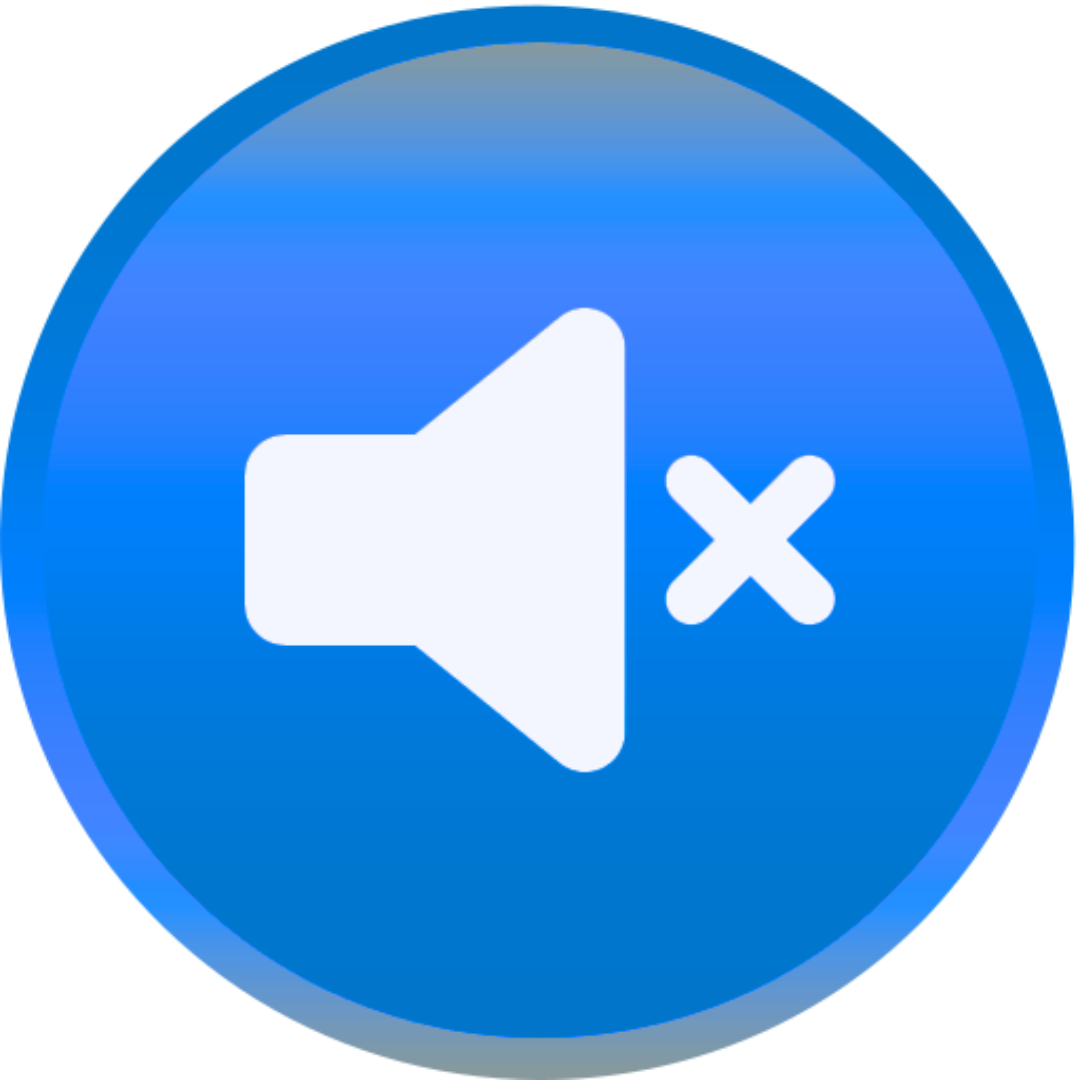
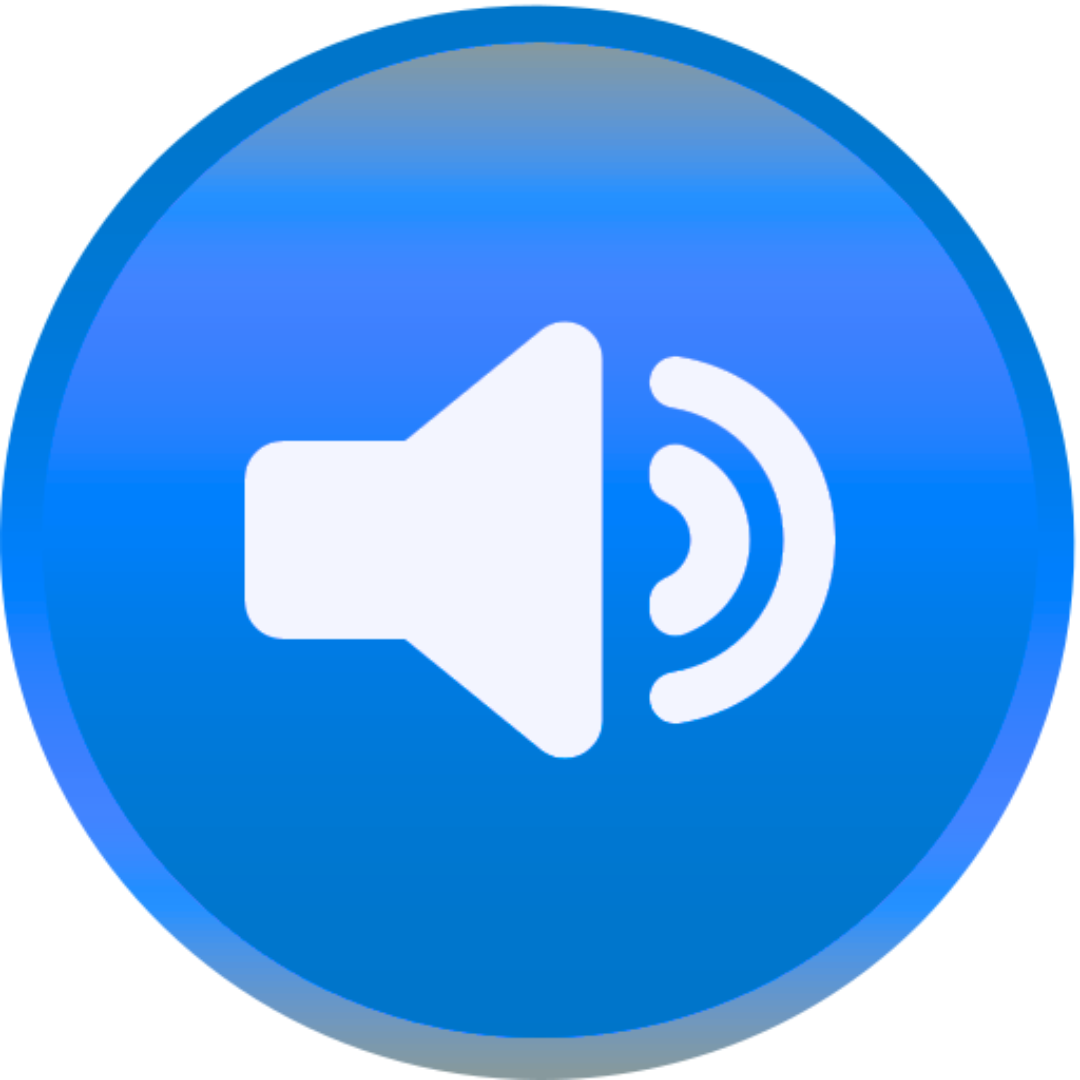
quiz page styles changed

diff --git a/Web/public/pages/level_1_quiz.html b/Web/public/pages/level_1_quiz.html
@@ -47,18 +47,21 @@
 
             <div id="middle-content">
                 <div class="answer">
-                    <button id="option-button" ><a href="/pages/level_1_win.html">Twinkle Twinkle</a></button>
-                    <img id="listen1" src="/images/listen-on.png">
+                    <button id="option-button"><a href="/pages/level_1_win.html">Twinkle Twinkle</a></button>
+                    <img id="listen1-off" src="/images/listen-off.png" alt="sound off">
+                    <img id="listen1-on" src="/images/listen-on.png" alt="sound on" class="hidden">
                     <audio id="audio1" src="/music/level_1_music.mp3"></audio>
                 </div>
                 <div class="answer">
                     <button id="option-button"><a href="/pages/level_1_lose.html">I'm a little tea pot</a></button>
-                    <img id="listen2" src="/images/listen-on.png">
+                    <img id="listen2-off" src="/images/listen-off.png" alt="sound off">
+                    <img id="listen2-on" src="/images/listen-on.png" alt="sound on" class="hidden">
                     <audio id="audio2" src="/music/level_2_music.mp3"></audio>
                 </div>
                 <div class="answer">
                     <button id="option-button"><a href="/pages/level_1_lose.html">You are my sunshine</a></button>
-                    <img id="listen3" src="/images/listen-on.png">
+                    <img id="listen3-off" src="/images/listen-off.png" alt="sound off">
+                    <img id="listen3-on" src="/images/listen-on.png" alt="sound on" class="hidden">
                     <audio id="audio3" src="/music/option_3_music.mp3"></audio>
                 </div>
             </div>
@@ -67,38 +70,56 @@
     </div>
 
     <script>
-        document.addEventListener("DOMContentLoaded", function () {
-            const audio1 = document.getElementById("audio1");
-            const audio2 = document.getElementById("audio2");
-            const audio3 = document.getElementById("audio3");
-            let isPlaying = false;
-            let currentAudio = null;
+        const audio1 = document.getElementById("audio1");
+        const audio2 = document.getElementById("audio2");
+        const audio3 = document.getElementById("audio3");
 
-            function handleListenClick(audioElement) {
-                if (isPlaying) {
-                    currentAudio.pause();
-                    currentAudio.currentTime = 0;
-                } else {
-                    audio1.pause();
-                    audio2.pause();
-                    audio3.pause();
-                    audioElement.play();
-                    currentAudio = audioElement;
-                }
-                isPlaying = !isPlaying;
-            }
+        const listen1Off = document.getElementById("listen1-off");
+        const listen2Off = document.getElementById("listen2-off");
+        const listen3Off = document.getElementById("listen3-off");
 
-            document.getElementById("listen1").addEventListener("click", function () {
-                handleListenClick(audio1);
-            });
+        const listen1On = document.getElementById("listen1-on");
+        const listen2On = document.getElementById("listen2-on");
+        const listen3On = document.getElementById("listen3-on");
 
-            document.getElementById("listen2").addEventListener("click", function () {
-                handleListenClick(audio2);
-            });
+        const optionButton1 = document.getElementById("option-button");
+        const optionButton2 = document.getElementById("option-button");
+        const optionButton3 = document.getElementById("option-button");
 
-            document.getElementById("listen3").addEventListener("click", function () {
-                handleListenClick(audio3);
-            });
+        listen1Off.addEventListener("click", () => {
+            audio1.play();
+            listen1Off.classList.add("hidden");
+            listen1On.classList.remove("hidden");
+        });
+
+        listen1On.addEventListener("click", () => {
+            audio1.pause();
+            listen1On.classList.add("hidden");
+            listen1Off.classList.remove("hidden");
+        });
+
+        listen2Off.addEventListener("click", () => {
+            audio2.play();
+            listen2Off.classList.add("hidden");
+            listen2On.classList.remove("hidden");
+        });
+
+        listen2On.addEventListener("click", () => {
+            audio2.pause();
+            listen2On.classList.add("hidden");
+            listen2Off.classList.remove("hidden");
+        });
+
+        listen3Off.addEventListener("click", () => {
+            audio3.play();
+            listen3Off.classList.add("hidden");
+            listen3On.classList.remove("hidden");
+        });
+
+        listen3On.addEventListener("click", () => {
+            audio3.pause();
+            listen3On.classList.add("hidden");
+            listen3Off.classList.remove("hidden");
         });
     </script>
 </body>

diff --git a/Web/public/styles/level_1_quiz.css b/Web/public/styles/level_1_quiz.css
@@ -115,9 +115,9 @@ html {
   flex-direction: column;
   align-items: center;
   justify-content: center;
-  gap: 1rem;
+  gap: 3rem;
   height: 60%;
-  width: 100%;
+  width: 120%;
 }
 
 .answer {
@@ -129,20 +129,21 @@ html {
   width: 100%;
 }
 
-#option-button{
+#option-button {
   background-color: lightgreen;
   border: none;
   border-radius: 50px;
-  padding: 10px ;
-  box-shadow: inset 2px 2px 5px rgba(0, 0, 0, 0.2), inset -2px -2px 5px rgba(255, 255, 255, 0.5);
+  padding: 10px;
+  box-shadow: inset 2px 2px 5px rgba(0, 0, 0, 0.2),
+    inset -2px -2px 5px rgba(255, 255, 255, 0.5);
   transition: background-color 0.3s, box-shadow 0.3s;
   margin: 20px;
   font-size: 3.5em;
-  position:relative;
-  width: 750px;
+  position: relative;
+  width: 100%;
 }
 
-#option-button:hover{
+#option-button:hover {
   background-color: rgb(178, 240, 178);
 }
 
@@ -156,6 +157,10 @@ html {
   text-shadow: #000;
 }
 
-#listen1, #listen2 ,#listen3{
-  width: 5%;
+.answer img {
+  width: 5vw;
+}
+
+.hidden {
+  display: none;
 }

diff --git a/Web/public/pages/level_2_game.html b/Web/public/pages/level_2_game.html
@@ -51,7 +51,7 @@
         </div>
 
         <div id="container">
-            <h1 id="topic">LEVEL 1</h1>
+            <h1 id="topic">LEVEL 2</h1>
 
             <div id="middle-content">
                 <canvas id="three-canvas" width="1000" height="500"></canvas>
